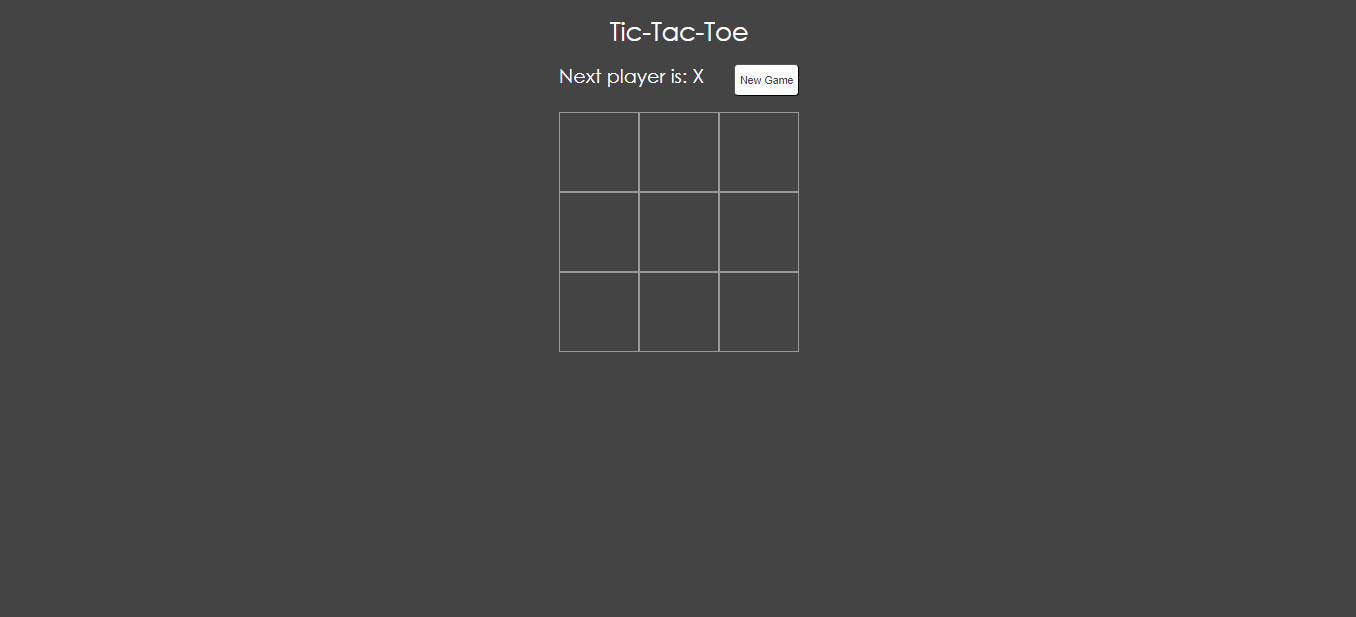
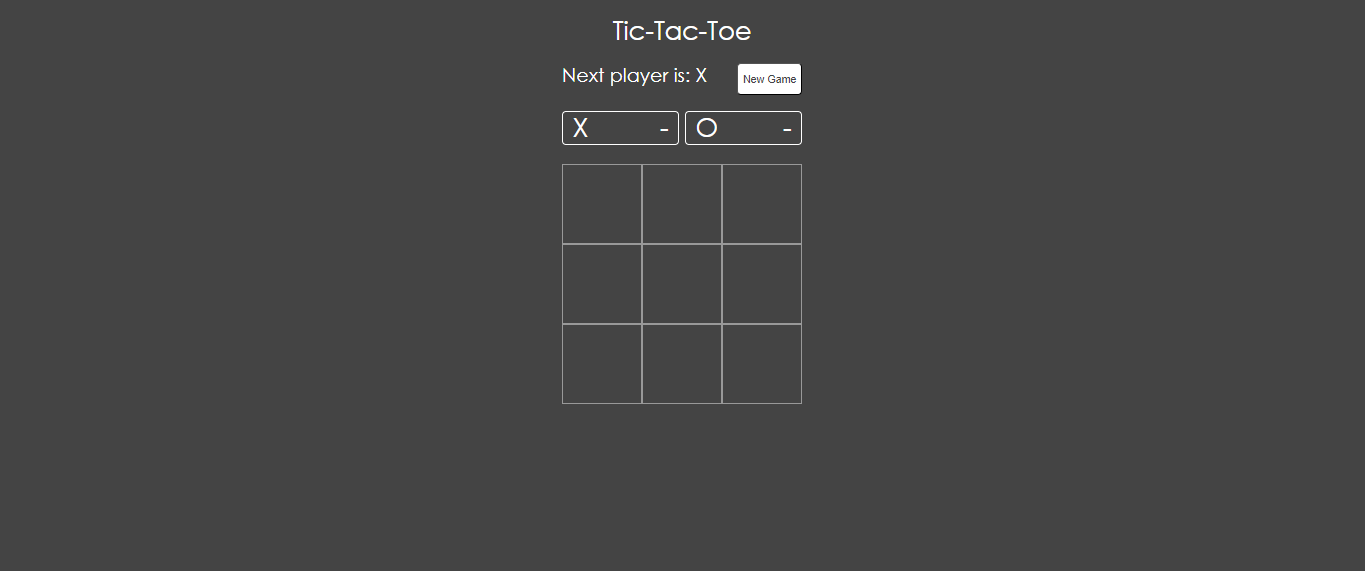
add score function

Changed region(s): [[0.4027, 0.0298, 0.5885, 0.3275], [0.4027, 0.5657, 0.5885, 0.5954], [0.4027, 0.4168, 0.5885, 0.4466]]

diff --git a/src/index.js b/src/index.js
@@ -1,4 +1,4 @@
-import React, { useState } from 'react'
+import React, { useCallback, useEffect, useMemo, useState } from 'react'
 import ReactDOM from 'react-dom'
 import './index.css'
 
@@ -13,17 +13,23 @@ const Square = (props) => {
   )
 }
 
+
+
 const Board = () => {
   const initialSquares = Array(9).fill(null);
   const [squares, setSquares] = useState(initialSquares)
   const [xIsNext, setXIsNext] = useState(true)
+  const [scoreX, setScoreX] = useState(0)
+  const [scoreO, setScoreO] = useState(0)
+
+
   const handleClickeEvent = (i) => {
     const newSquare = [...squares];
 
     const winnerDeclared = Boolean(calculteTheWinner(newSquare))
     const squareFilled = Boolean(newSquare[i]);
 
-    if(winnerDeclared || squareFilled){
+    if (winnerDeclared || squareFilled) {
       return;
     }
 
@@ -40,21 +46,45 @@ const Board = () => {
     )
   }
 
-  const reset = ()=>{
+  const reset = () => {
     setSquares(initialSquares)
     setXIsNext(true)
   }
 
   const winner = calculteTheWinner(squares);
+
+  //did update winner and must return the value
+  const whereWinner = useMemo(() => {
+    return winner
+  }, [winner]);
+
+  //did update wherewinner without return the value
+  const calculateScore = useCallback(() => {
+    if (whereWinner === "X") {
+      setScoreX(prevScoreX => prevScoreX + 1);
+    } else if (whereWinner === "O") {
+      setScoreO(prevScoreO => prevScoreO + 1);
+    }
+  }, [whereWinner]);
+  
+  //did update calculateScore
+  useEffect(() => {
+    calculateScore();
+  }, [calculateScore]);
+
   const draw = !squares.includes(null) && !winner;
-  const status = draw ? `Draw`: winner? `Winner is : ${winner}`: `Next player is: ${xIsNext ? 'X':'O'}`
+  const status = draw ? `Draw` : winner ? `Winner is : ${winner}` : `Next player is: ${xIsNext ? 'X' : 'O'}`
   return (
     <div >
       <div className='status'>
         <div>
-        {status}
+          {status}
         </div>
-        <button onClick={()=> reset()} className='new-game'>New Game</button>
+        <button onClick={() => reset()} className='new-game'>New Game</button>
+      </div>
+      <div className='container-score'>
+        <div className='score'><div>X</div><div>{`${scoreX ? scoreX : "-"}`}</div></div>
+        <div className='score'><div>O</div><div>{`${scoreO ? scoreO : "-"}`}</div></div>
       </div>
       <div className='board-row'>
         {renderSquare(0)}
@@ -89,18 +119,20 @@ ReactDOM.render(
   document.getElementById('root')
 )
 
-function calculteTheWinner(squares){
-  const lines=[
-    [0,1,2], [3,4,5], [6,7,8],//rows
-    [0,3,6], [1,4,7], [2,5,8],//columns
-    [0,4,8], [2,4,6]//diagonals
+function calculteTheWinner(squares) {
+  const lines = [
+    [0, 1, 2], [3, 4, 5], [6, 7, 8],//rows
+    [0, 3, 6], [1, 4, 7], [2, 5, 8],//columns
+    [0, 4, 8], [2, 4, 6]//diagonals
   ]
-  for(let line of lines){
-    const [a,b,c]=line;
-    if(squares[a] && squares[a] === squares[b] && squares[a] === squares[c]){
+  for (let line of lines) {
+    const [a, b, c] = line;
+    if (squares[a] && squares[a] === squares[b] && squares[a] === squares[c]) {
       return squares[a];
     }
   }
   return null;
 }
+
+
 

diff --git a/src/index.css b/src/index.css
@@ -5,18 +5,18 @@ body {
   font: 32px "Century Gothic", Futura, sans-serif;
 }
 
-.game{
-  display:flex;
-  flex-direction:column;
+.game {
+  display: flex;
+  flex-direction: column;
   align-items: center;
 }
 
-.board-row{
+.board-row {
   display: flex;
   flex-flow: row nowrap;
 }
 
-.square{
+.square {
   background-color: #444;
   color: #fff;
   border: 1px solid #999;
@@ -27,7 +27,7 @@ body {
   height: 100px;
 }
 
-.square:focus{
+.square:focus {
   outline: none;
   background-color: #222;
 }
@@ -39,11 +39,27 @@ body {
   justify-content: space-between;
 }
 
-.new-game{
-  margin:0 0 0 16px;
-  height:40px;
+.new-game {
+  margin: 0 0 0 16px;
+  height: 40px;
   border-radius: 5px;
-  color:#444;
+  color: #444;
   background-color: #fff;
   cursor: pointer;
+}
+
+.container-score {
+  display: flex;
+  margin-bottom: 24px;
+  justify-content: space-between;
+}
+
+.score {
+  border: 1px solid white;
+  width: 40%;
+  display: flex;
+  flex-direction: row;
+  justify-content: space-between;
+  padding: 0 12px;
+  border-radius:5px;
 }
